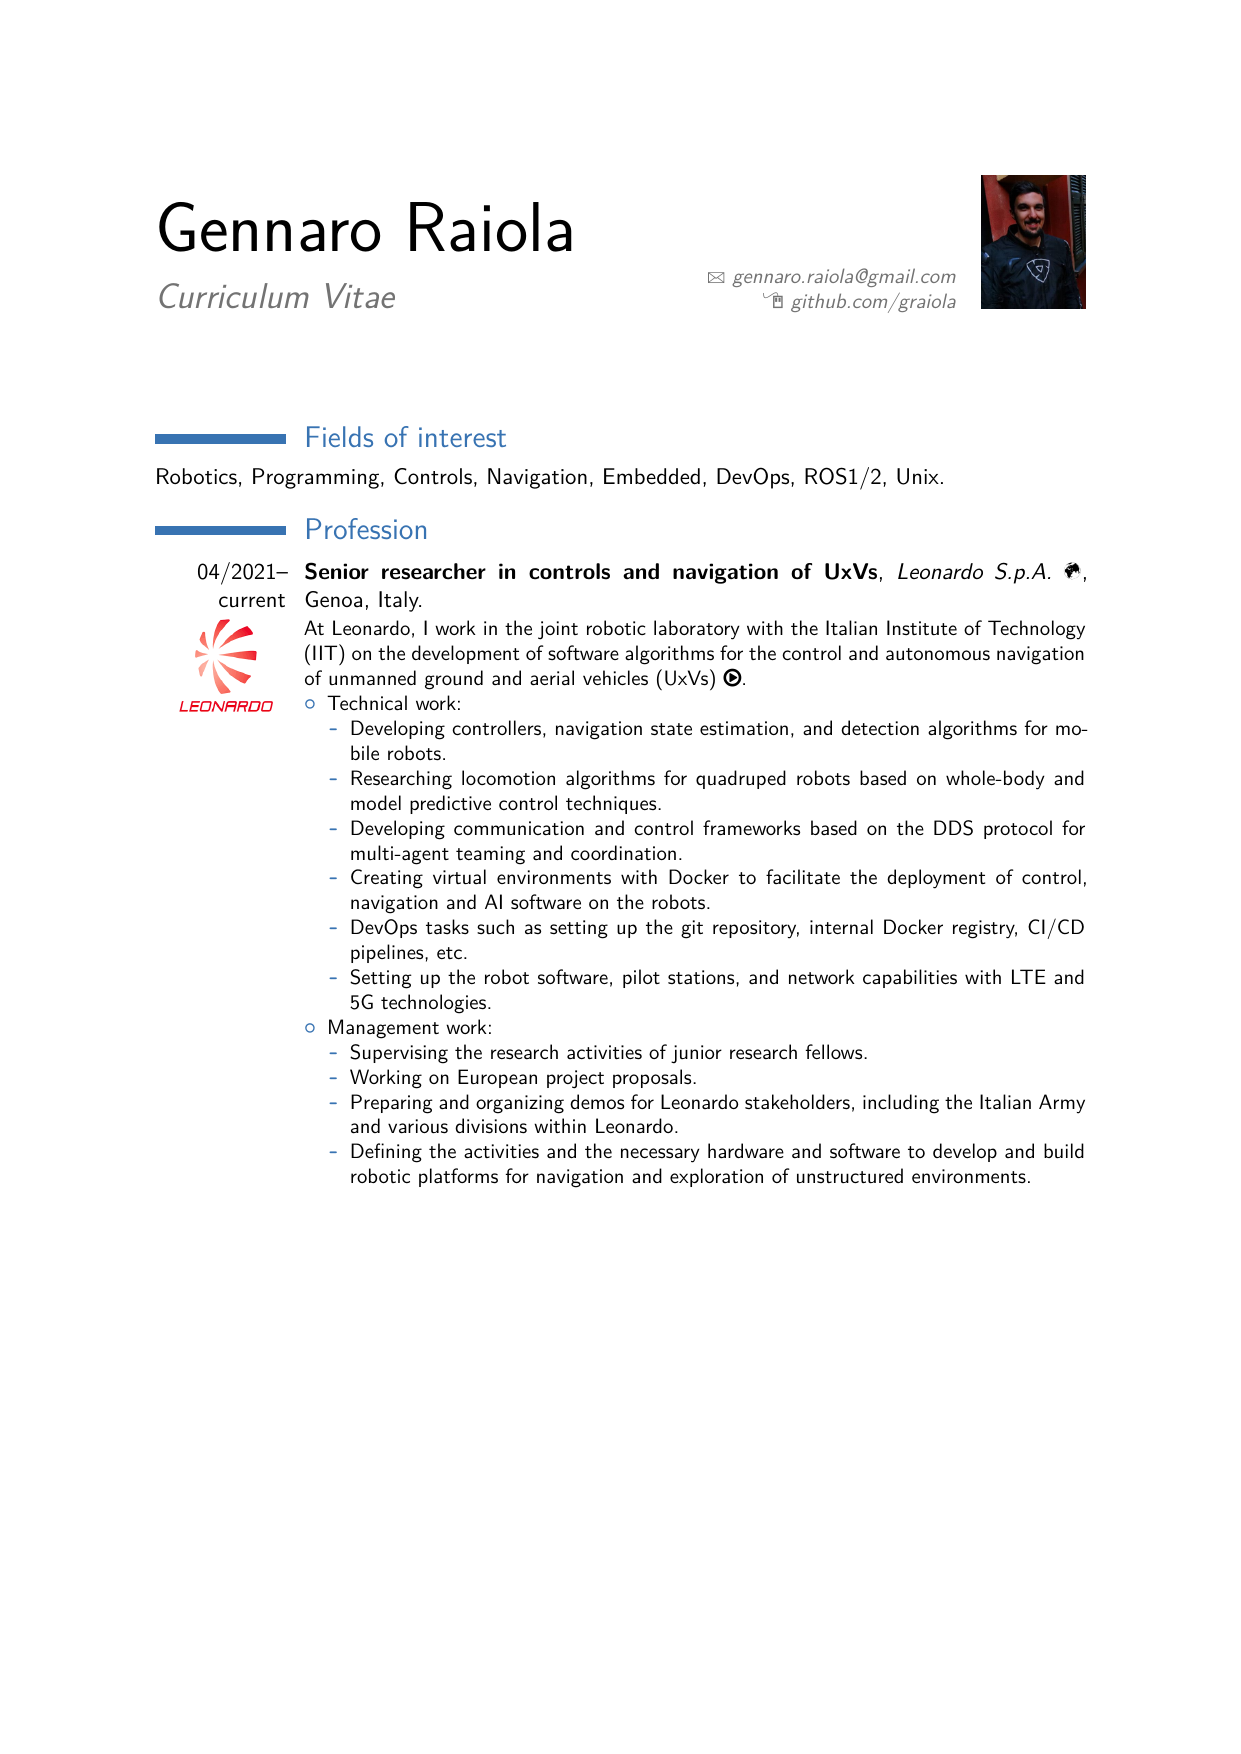
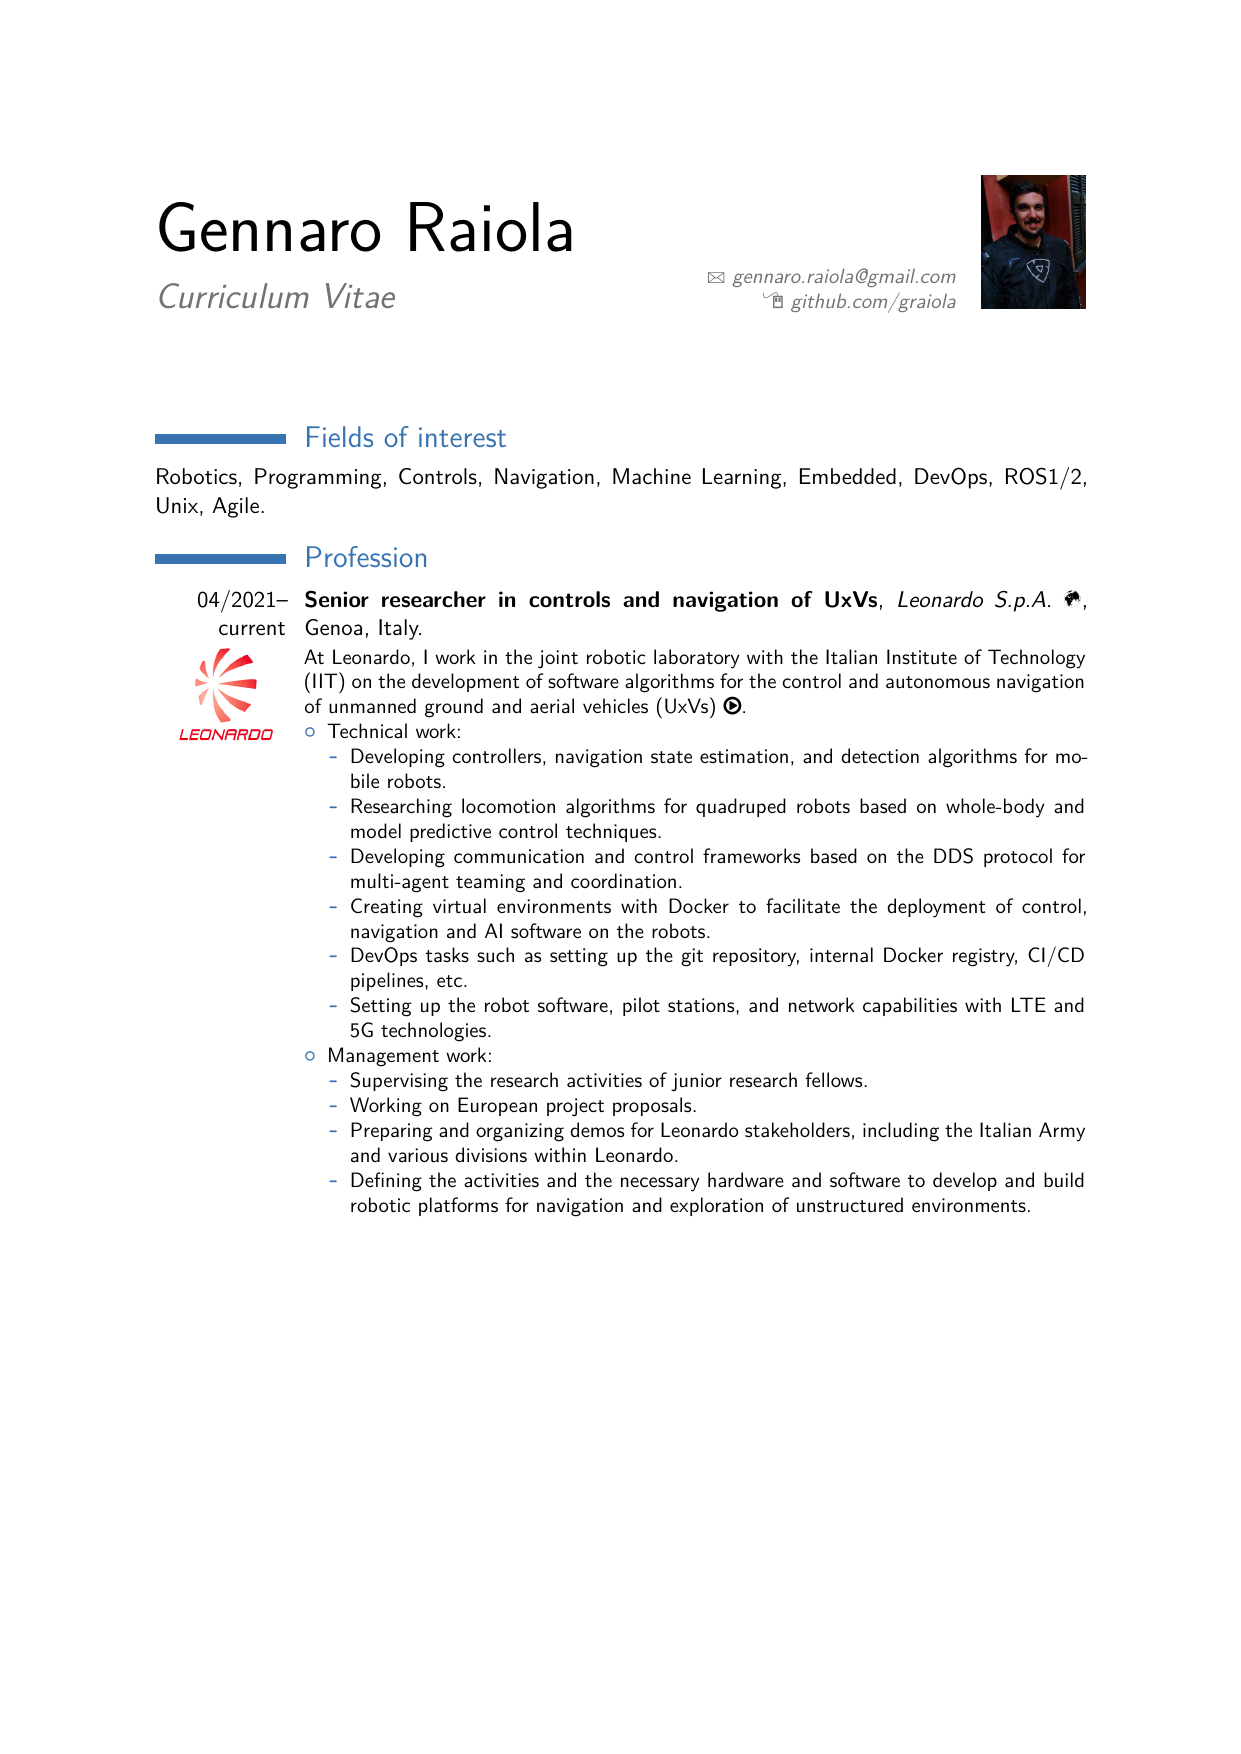
Generated files updated on dom 15 ott 2023, 16:07:54, CEST

Changed region(s): [[0.1225, 0.2463, 0.888, 0.7081], [0.8268, 0.2463, 0.8574, 0.2771]]

diff --git a/CV_Gennaro-Raiola.tex b/CV_Gennaro-Raiola.tex
@@ -78,7 +78,7 @@
 %}
 %\end{center}
 \section{Fields of interest}
-Robotics, Programming, Controls, Navigation, Embedded, DevOps, ROS1/2, Unix.
+Robotics, Programming, Controls, Navigation, Machine Learning, Embedded, DevOps, ROS1/2, Unix, Agile.
 \section{Profession}
 \cventry{04/2021--current \logo{leonardo}}{Senior researcher in controls and navigation of UxVs}{Leonardo S.p.A. \href{https://www.leonardocompany.com/}{\Mundus}}{Genoa, Italy}{}{ 
 At Leonardo, I work in the joint robotic laboratory with the Italian Institute of Technology (IIT) on the development of software algorithms for the control and autonomous navigation of unmanned ground and aerial vehicles (UxVs) \href{https://youtu.be/hWOjaNWAr-Q}{\faPlayCircle}.
